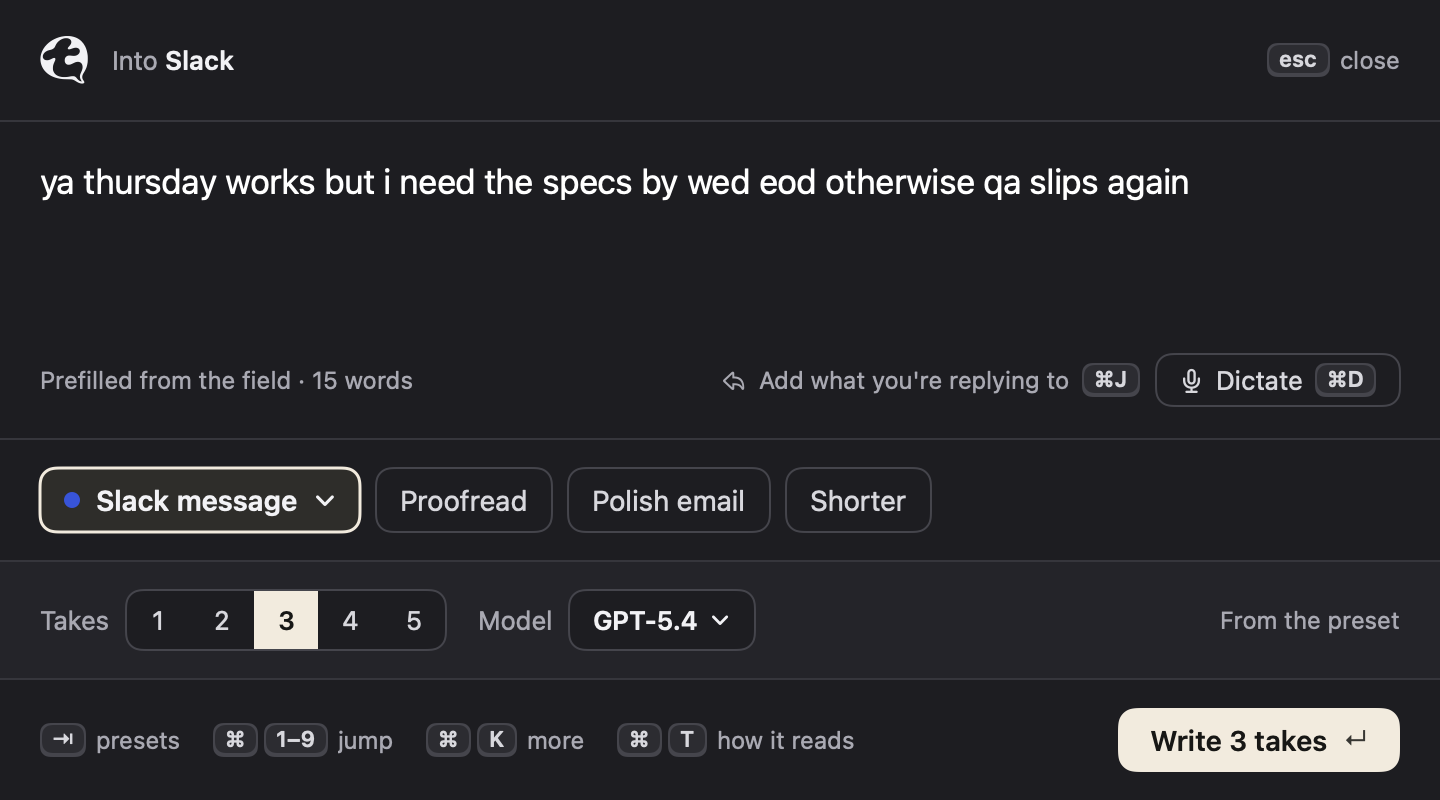
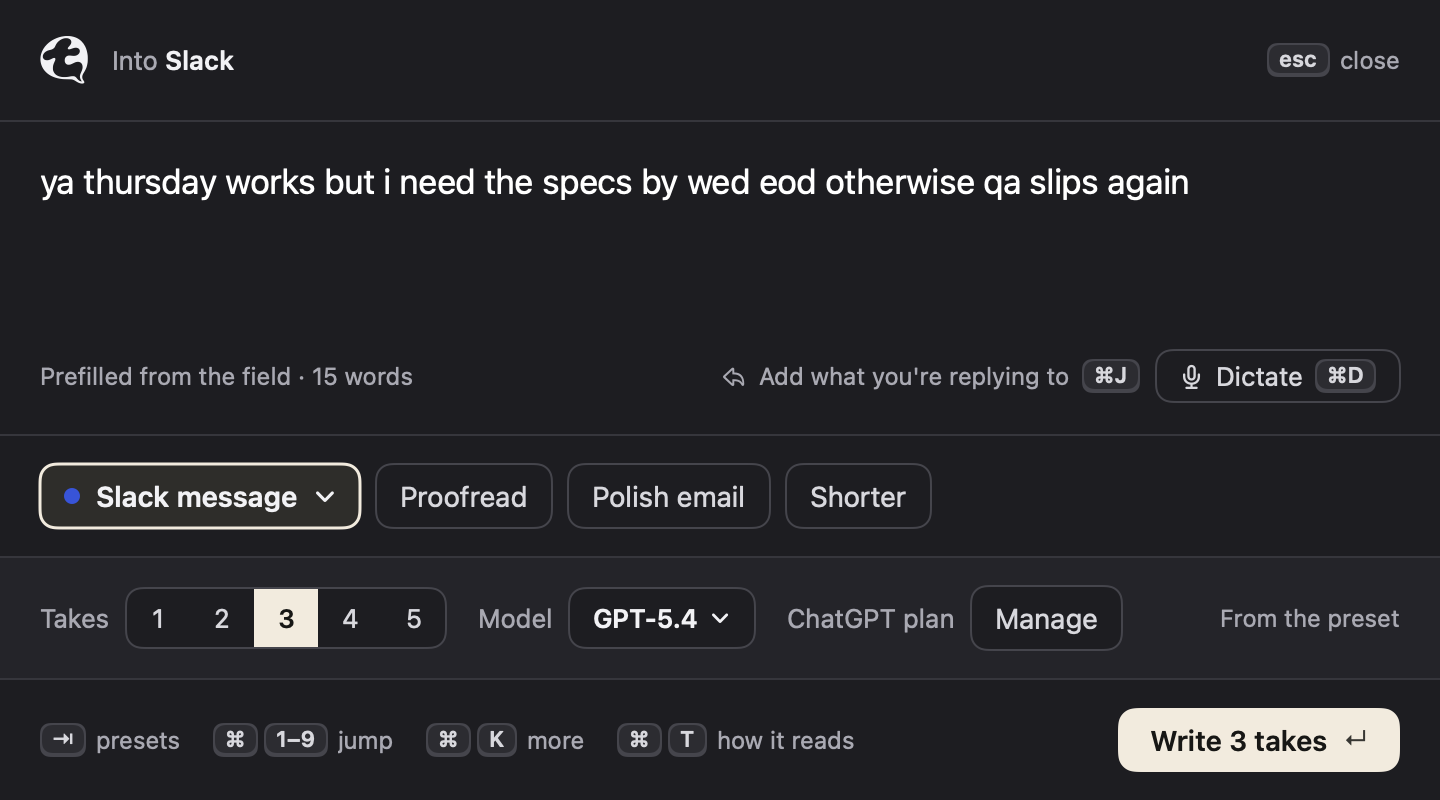
Merge follow-ups: scrolling engine step, ChatGPT plan note in the panel, changelog
The onboarding engine step has five options now, so the header stays and the
options scroll. The panel's settings strip says "ChatGPT plan · Manage" next to
the model when that engine is on, and a usage-limit error makes Manage usage the
primary action (OpenAI's Sign in with ChatGPT UI guidelines). Changelog entries
for the two engines and the privacy notice.

diff --git a/Sources/Takes/PanelViews.swift b/Sources/Takes/PanelViews.swift
@@ -161,6 +161,16 @@ struct ComposeView: View {
                     MenuPicker(options: Models.efforts.map { (value: $0, title: $0.capitalized) }, selection: $model.effort)
                 }
             }
+            if model.store.settings.engine == .chatGPT {
+                // OpenAI's Sign in with ChatGPT guidelines: say the plan is in use next to the model, with a way to manage it.
+                HStack(spacing: Spacing.item) {
+                    StripLabel("ChatGPT plan")
+                    Button("Manage") { NSWorkspace.shared.open(ChatGPTOAuth.usageURL) }
+                        .buttonStyle(PillButtonStyle(height: Spacing.control))
+                        .accessibilityLabel("Manage ChatGPT plan usage")
+                        .accessibilityHint("Opens your ChatGPT usage settings in the browser")
+                }
+            }
             Spacer(minLength: 0)
             Text(model.isOverridden ? "Changed for this run" : "From the preset")
                 .font(.system(size: 12))
@@ -401,7 +411,13 @@ struct TakesView: View {
                 VStack(alignment: .leading, spacing: Spacing.inner) {
                     Text(error).font(.system(size: 14)).foregroundStyle(Theme.avoidText).textSelection(.enabled)
                     HStack {
-                        Button("Try again", action: model.generate).buttonStyle(PrimaryButtonStyle())
+                        if error == ChatGPTEngine.usageLimitMessage || error == ChatGPTEngine.unavailableMessage {
+                            // Usage limit: the fix is in ChatGPT's settings, so that's the primary action.
+                            Button("Manage usage") { NSWorkspace.shared.open(ChatGPTOAuth.usageURL) }.buttonStyle(PrimaryButtonStyle())
+                            Button("Try again", action: model.generate).buttonStyle(SecondaryButtonStyle(height: 36))
+                        } else {
+                            Button("Try again", action: model.generate).buttonStyle(PrimaryButtonStyle())
+                        }
                         Button("Edit draft") { model.show(.compose) }.buttonStyle(SecondaryButtonStyle(height: 36))
                     }
                 }

diff --git a/Sources/Takes/OnboardingView.swift b/Sources/Takes/OnboardingView.swift
@@ -335,12 +335,16 @@ private struct EngineStep: View {
     var body: some View {
         VStack(alignment: .leading, spacing: 0) {
             StepHeader(title: "Connect a model", subtitle: "Takes writes with Claude under your own account, with your ChatGPT plan or another provider's key, or with a model on your Mac.")
-            VStack(spacing: Spacing.inner) {
-                option(.claudeCode, title: "Your Claude subscription", detail: "Through Claude Code on this Mac.") { claudeCodeDetail }
-                option(.apiKey, title: "An Anthropic API key", detail: "Pay per use, billed by Anthropic. Usually a cent or two per run.") { apiKeyDetail }
-                option(.chatGPT, title: "Your ChatGPT plan", detail: "Sign in with ChatGPT. Plus or Pro, no extra cost.") { ChatGPTOnboardingDetail(model: model) }
-                option(.provider, title: "An OpenAI or other API key", detail: "Pay per use, billed by the provider.") { ProviderOnboardingDetail(model: model) }
-                option(.local, title: "A model on this Mac", detail: "Ollama or LM Studio. Nothing leaves your Mac.") { localDetail }
+            // Five options don't fit the window; the header stays put and the options scroll.
+            ScrollView {
+                VStack(spacing: Spacing.inner) {
+                    option(.claudeCode, title: "Your Claude subscription", detail: "Through Claude Code on this Mac.") { claudeCodeDetail }
+                    option(.apiKey, title: "An Anthropic API key", detail: "Pay per use, billed by Anthropic. Usually a cent or two per run.") { apiKeyDetail }
+                    option(.chatGPT, title: "Your ChatGPT plan", detail: "Sign in with ChatGPT. Plus or Pro, no extra cost.") { ChatGPTOnboardingDetail(model: model) }
+                    option(.provider, title: "An OpenAI or other API key", detail: "Pay per use, billed by the provider.") { ProviderOnboardingDetail(model: model) }
+                    option(.local, title: "A model on this Mac", detail: "Ollama or LM Studio. Nothing leaves your Mac.") { localDetail }
+                }
+                .padding(2)
             }
         }
     }

diff --git a/CHANGELOG.md b/CHANGELOG.md
@@ -4,7 +4,7 @@ All notable changes to Takes. Versions follow [semantic versioning](https://semv
 
 ## 0.3.0
 
-- **Onboarding.** A guided first run: Accessibility, connecting Claude (or a local model), privacy, hotkey, starter presets, and a practice box that ends with a real take. Existing users don't see it. The setup window shares its look.
+- **Onboarding.** A guided first run: Accessibility, connecting a model, privacy, hotkey, starter presets, and a practice box that ends with a real take. Existing users don't see it. The setup window shares its look.
 - **Write and paste right away.** A preset's own hotkey can write 1 take and paste it with no panel, with a note to cancel, undo or open it in Takes. Nothing is typed if you've switched apps.
 - **Proofread.** A built-in Proofread preset and a "Minimal edits" option for any preset. Fixes are marked inline with a count, and "No mistakes found" replaces an identical take. The word diff handles punctuation and case better and reads each change to VoiceOver.
 - **Preset gallery.** 12 ready-made presets to add from Settings › Presets, the new-preset state and the panel's preset list. New installs start with 7; existing presets are never touched.
@@ -12,6 +12,9 @@ All notable changes to Takes. Versions follow [semantic versioning](https://semv
 - **Tone.** A short note on how each take may come across, and ⌘T for your draft. Per preset, on by default (off for Proofread).
 - **Dictation.** ⌘D speaks a draft, recognised on this Mac only.
 - **Local models.** A third engine: Ollama or LM Studio on this Mac, localhost only.
+- **Your ChatGPT plan.** Sign in with ChatGPT in the browser and write with the models in your Plus or Pro plan, at no extra cost. Tokens stay in your keychain; requests come from this Mac, for you, for Takes only. "Manage usage" opens your ChatGPT settings, also when the week's allowance runs out.
+- **Other provider.** Your own API key for OpenAI, Google Gemini, OpenRouter, Groq, Mistral, or any https server that speaks the OpenAI API. Keys stay in your keychain; the Engine tab lists the provider's models and tests the key.
+- **Privacy notice.** One section per engine, and a new section on how Takes follows Anthropic's and OpenAI's rules. Setup, onboarding, the Engine tab, the README and the website name whichever engine you picked. The disabled "Sign in with Claude" card is gone: Anthropic doesn't allow it for third-party apps.
 - **Your languages.** Takes starts from your Mac's languages instead of a fixed English/Hebrew choice. Presets can reply in any language, the gallery has a "Translate to …" preset for each of yours, and you can change the list in onboarding and Settings › Voice. Existing presets keep their language.
 - Preset options (Minimal edits, Show tone, Write and paste right away) sit together in one "How it writes" card.
 - Release builds can use the microphone (hardened-runtime entitlement), for dictation.
